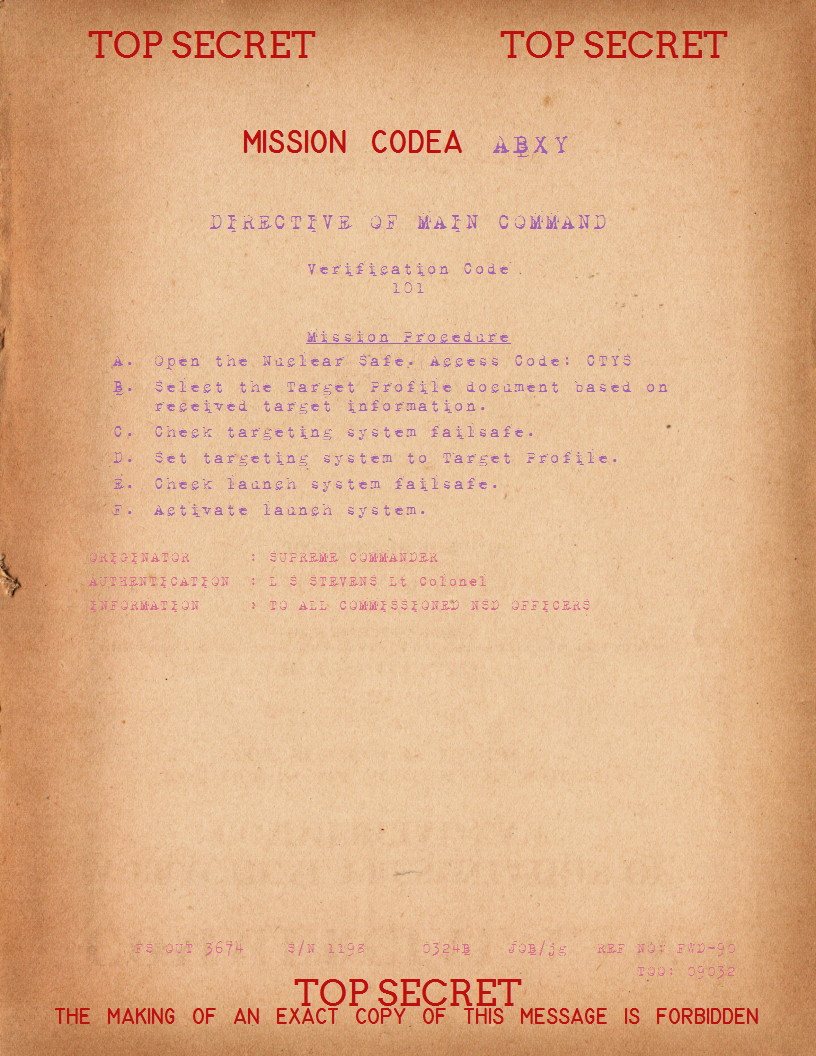
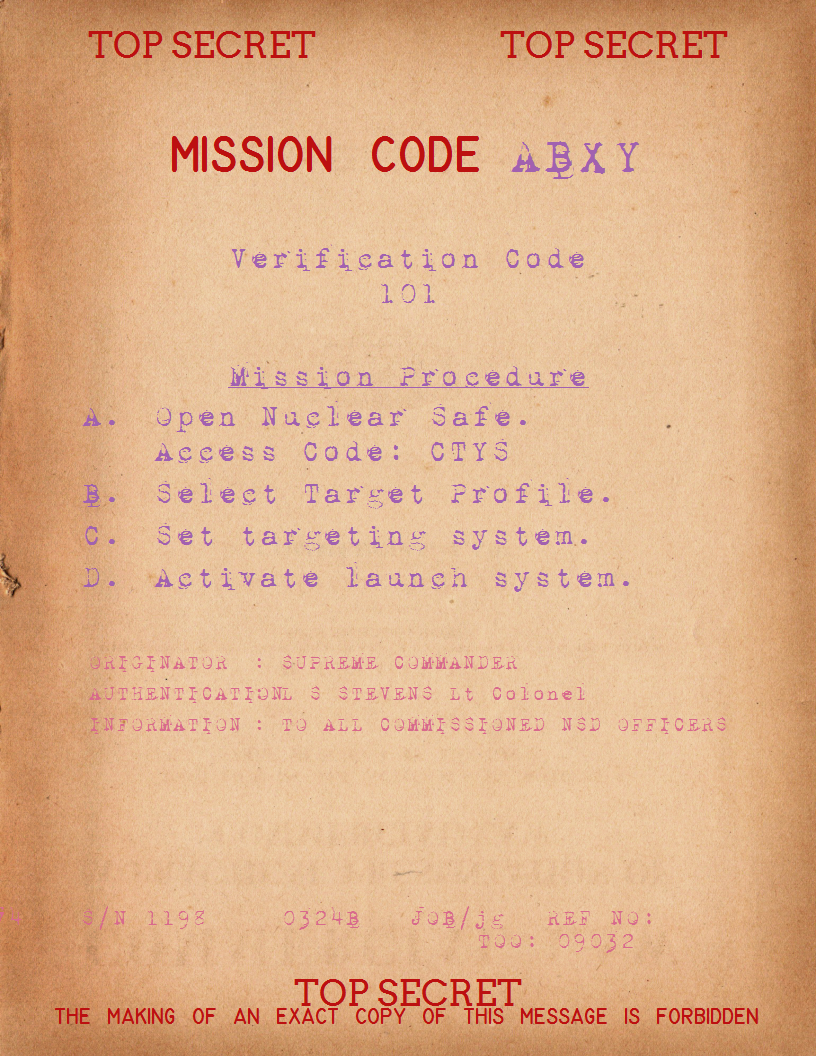
Revamped mission docs

diff --git a/Assets/_Documents/mission-document.html b/Assets/_Documents/mission-document.html
@@ -1,184 +1,6 @@
 <html>
-  <style>
-  
-    @font-face {
-      font-family: "Report 1942";
-      src: url("1942.ttf");
-    }
+  <link rel="stylesheet" type="text/css" href="style.css">
 
-    @font-face {
-      font-family: "MS33558";
-      src: url("MS33558.ttf");
-    }
-
-    @font-face {
-      font-family: "Arvo";
-      src: url("Arvo-Regular.ttf");
-    }
-
-    .purple {
-      color: #A161B0;
-    }
-
-    .pink {
-      color: #D86A8C;
-    }
-
-    .red {
-      color: #BC1010;
-    }
-
-    .huge-text {
-      font-size: 36px;
-      line-height: 29px;
-    }
-
-    .grungy-text {
-      font-family: "Report 1942";
-    }
-
-    .military-spec-text {
-      font-family: "MS33558";
-    }
-
-    .official-text {
-      font-family: "Arvo";
-    }
-
-    .background-image {
-      position: absolute;
-      top: 0px; right: 0px;
-      left: 0px; bottom: 0px;
-      width: 816px;
-      height: 1056px;
-      z-index: -1;
-    }
-
-    .top-secret-header {
-      position: relative;
-      color: #BC1010;
-      width: 80%;
-      margin: 0px auto;
-      margin-top: 30px;
-    }
-
-    .top-secret-header .right {
-      position: absolute;
-      right: 0px;
-      top: 0px;
-    }
-
-    .mission-code-container {
-      text-align: center;
-      margin-top: 70px;
-      margin-bottom: 50px;
-    }
-
-    .mission-code-container .title {
-      font-size: 23px;
-    }
-
-    .mission-code-container .mission-code {
-      font-size: 30px;
-      padding-left: 20px;
-    }
-
-    .directive {
-      padding: 0px 20px;
-      width: 80%;
-      margin: 0px auto;
-      text-align: center;
-      font-size: 18px;
-      box-sizing: border-box;
-    }
-
-    .directive .title {
-      font-size: 24px;
-    }
-
-    .verification-code {
-      margin-top: 24px;
-      margin-bottom: 30px;
-    }
-
-    .mission-procedure-items {
-      text-align: left;
-    }
-
-    .mission-procedure-items ol {
-      margin: 5px;
-    }
-
-    .mission-procedure-items li {
-      margin-bottom: 7px;
-    }
-
-    .mission-procedure {
-      text-decoration: underline;
-    }
-
-    .pink-info {
-      width: 80%;
-      margin: 0px auto;
-      margin-top: 30px;
-    }
-
-    .pink-row {
-      margin-bottom: 8px;
-    }
-
-    .pink-row .title {
-      display: inline-block;
-      width: 150px;
-    }
-
-    .pink-row .colon {
-      width: 20px;
-    }
-
-    .pink-footer {
-      position: absolute;
-      bottom: 100px;
-      right: 30px;
-      width: 80%;
-    }
-
-    .pink-footer .chunk-1 {
-      padding-right: 5%;
-    }
-
-    .pink-footer .chunk-2 {
-      padding-right: 7%;
-    }
-
-    .pink-footer .chunk-3 {
-      padding-right: 4%;
-    }
-
-    .pink-footer .chunk-4 {
-      padding-right: 3%;
-    }
-
-    .pink-footer .chunk-5 {
-      
-    }
-
-    .pink-footer .chunk-6 {
-      position: absolute;
-      top: 23px;
-      left: 77%;
-    }
-
-    .top-secret-footer {
-      position: absolute;
-      bottom: 0px;
-      left: 0px;
-      right: 0px;
-      text-align: center;
-      margin-bottom: 30px;
-    }
-
-  </style>
 
   <body>
 
@@ -190,7 +12,7 @@
     </div>
     
     <div class="mission-code-container">
-      <span class="title red-capitals military-spec-text red">MISSION CODE:</span>
+      <span class="title red-capitals military-spec-text red">MISSION CODE</span>
       <span class="mission-code grungy-text purple">MISSIONCODE</span>
     </div>
 
@@ -205,12 +27,10 @@
       <div class="mission-procedure">Mission Procedure</div>
 
       <div class="mission-procedure-items">
-        <ol type="A">
-          <li>Open the Nuclear Safe. Access Code: SAFECODE</li>
-          <li>Select the Target Profile document based on received target information.</li>
-          <li>Check targeting system failsafe.</li>
-          <li>Set targeting system to Target Profile.</li>
-          <li>Check launch system failsafe.</li>
+       <ol type="A">
+          <li>Open Nuclear Safe. <br> Access Code: SAFECODE</li>
+          <li>Select Target Profile.</li>
+          <li>Set targeting system.</li>
           <li>Activate launch system.</li>
         </ol>
       </div>

diff --git a/Assets/_Documents/style.css b/Assets/_Documents/style.css
@@ -1,0 +1,182 @@
+
+    @font-face {
+      font-family: "Report 1942";
+      src: url("1942.ttf");
+    }
+
+    @font-face {
+      font-family: "MS33558";
+      src: url("MS33558.ttf");
+    }
+
+    @font-face {
+      font-family: "Arvo";
+      src: url("Arvo-Regular.ttf");
+    }
+
+    .purple {
+      color: #A161B0;
+    }
+
+    .pink {
+      color: #D86A8C;
+    }
+
+    .red {
+      color: #BC1010;
+    }
+
+    .huge-text {
+      font-size: 36px;
+      line-height: 29px;
+    }
+
+    .grungy-text {
+      font-family: "Report 1942";
+    }
+
+    .military-spec-text {
+      font-family: "MS33558";
+    }
+
+    .official-text {
+      font-family: "Arvo";
+    }
+
+    .background-image {
+      position: absolute;
+      top: 0px; right: 0px;
+      left: 0px; bottom: 0px;
+      width: 816px;
+      height: 1056px;
+      z-index: -1;
+    }
+
+    .top-secret-header {
+      position: relative;
+      color: #BC1010;
+      width: 80%;
+      margin: 0px auto;
+      margin-top: 30px;
+    }
+
+    .top-secret-header .right {
+      position: absolute;
+      right: 0px;
+      top: 0px;
+    }
+
+    .mission-code-container {
+      text-align: center;
+      margin-top: 70px;
+      margin-bottom: 50px;
+    }
+
+    .mission-code-container .title {
+      font-size: 36px;
+    }
+
+    .mission-code-container .mission-code {
+      font-size: 53px;
+      padding-left: 20px;
+    }
+
+    .directive {
+      padding: 0px 20px;
+      width: 80%;
+      margin: 0px auto;
+      text-align: center;
+      font-size: 33px;
+      box-sizing: border-box;
+    }
+
+    .directive .title {
+      font-size: 24px;
+      display: none;
+    }
+
+    .verification-code {
+      margin-top: 58px;
+      margin-bottom: 48px;
+    }
+
+    .mission-procedure-items {
+      text-align: left;
+    }
+
+    .mission-procedure-items ol {
+      margin: 5px;
+    }
+
+    .mission-procedure-items li {
+      margin-bottom: 7px;
+    }
+
+    .mission-procedure {
+      text-decoration: underline;
+    }
+
+    .pink-info {
+      width: 80%;
+      margin: 0px auto;
+      margin-top: 56px;
+      font-size: 22px;
+      /* display: none; */
+    }
+
+    .pink-row {
+      margin-bottom: 8px;
+    }
+
+    .pink-row .title {
+      display: inline-block;
+      width: 150px;
+    }
+
+    .pink-row .colon {
+      width: 20px;
+    }
+
+    .pink-footer {
+      position: absolute;
+      bottom: 100px;
+      right: 152px;
+      width: 100%;
+      font-size: 24px;
+      /* display: none; */
+    }
+
+    .pink-footer .chunk-1 {
+      padding-right: 5%;
+    }
+
+    .pink-footer .chunk-2 {
+      padding-right: 7%;
+    }
+
+    .pink-footer .chunk-3 {
+      padding-right: 4%;
+    }
+
+    .pink-footer .chunk-4 {
+      padding-right: 3%;
+    }
+
+    .pink-footer .chunk-5 {
+      
+    }
+
+    .pink-footer .chunk-6 {
+      position: absolute;
+      top: 23px;
+      left: 77%;
+    }
+
+    .top-secret-footer {
+      position: absolute;
+      bottom: 0px;
+      left: 0px;
+      right: 0px;
+      text-align: center;
+      margin-bottom: 30px;
+    }
